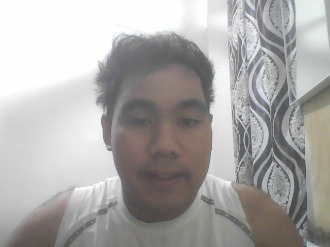
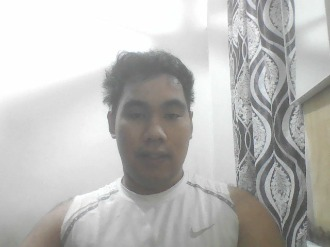
Fixed the preview image

diff --git a/Front_end/src/components/css/uploadFile.css b/Front_end/src/components/css/uploadFile.css
@@ -487,12 +487,14 @@ html, body {
 }
  
   .preview-img {
-    width: 100%; /* Make the image width match the container's width */
-    height: 100%; /* Fill the full height of the container */
-    object-fit: cover; /* Cover the container, cropping if necessary */
+    width: 100% !important; /* Force full width */
+    aspect-ratio: 4/3; /* Standard webcam aspect ratio (640×480) */
     border-radius: 8px; /* Rounded corners */
-    display: block; /* Ensure proper rendering in all browsers */
-    max-width: 100%; /* Ensure it never exceeds container width */
+    object-fit: cover; /* Fill the container, crop if needed */
+    display: block; /* Remove any inline spacing */
+    /* Match webcam feed transform settings for consistency */
+    transform: scale(1.3) scaleX(-1); /* Match the webcam zoom level */
+    transform-origin: center; /* Transform from the center */
   }
   
   /* Webcam feed styling */
@@ -506,7 +508,7 @@ html, body {
     /* Uncomment or adjust the transform properties as needed: */
     transform: 
       /* Zoom level - adjust value for more/less zoom */
-      scale(1.0) 
+      scale(1.3) 
       /* Rotation - adjust degrees for rotation (0-360) */
       rotate(0deg) 
       /* Horizontal mirror - use scaleX(-1) to flip horizontally */
